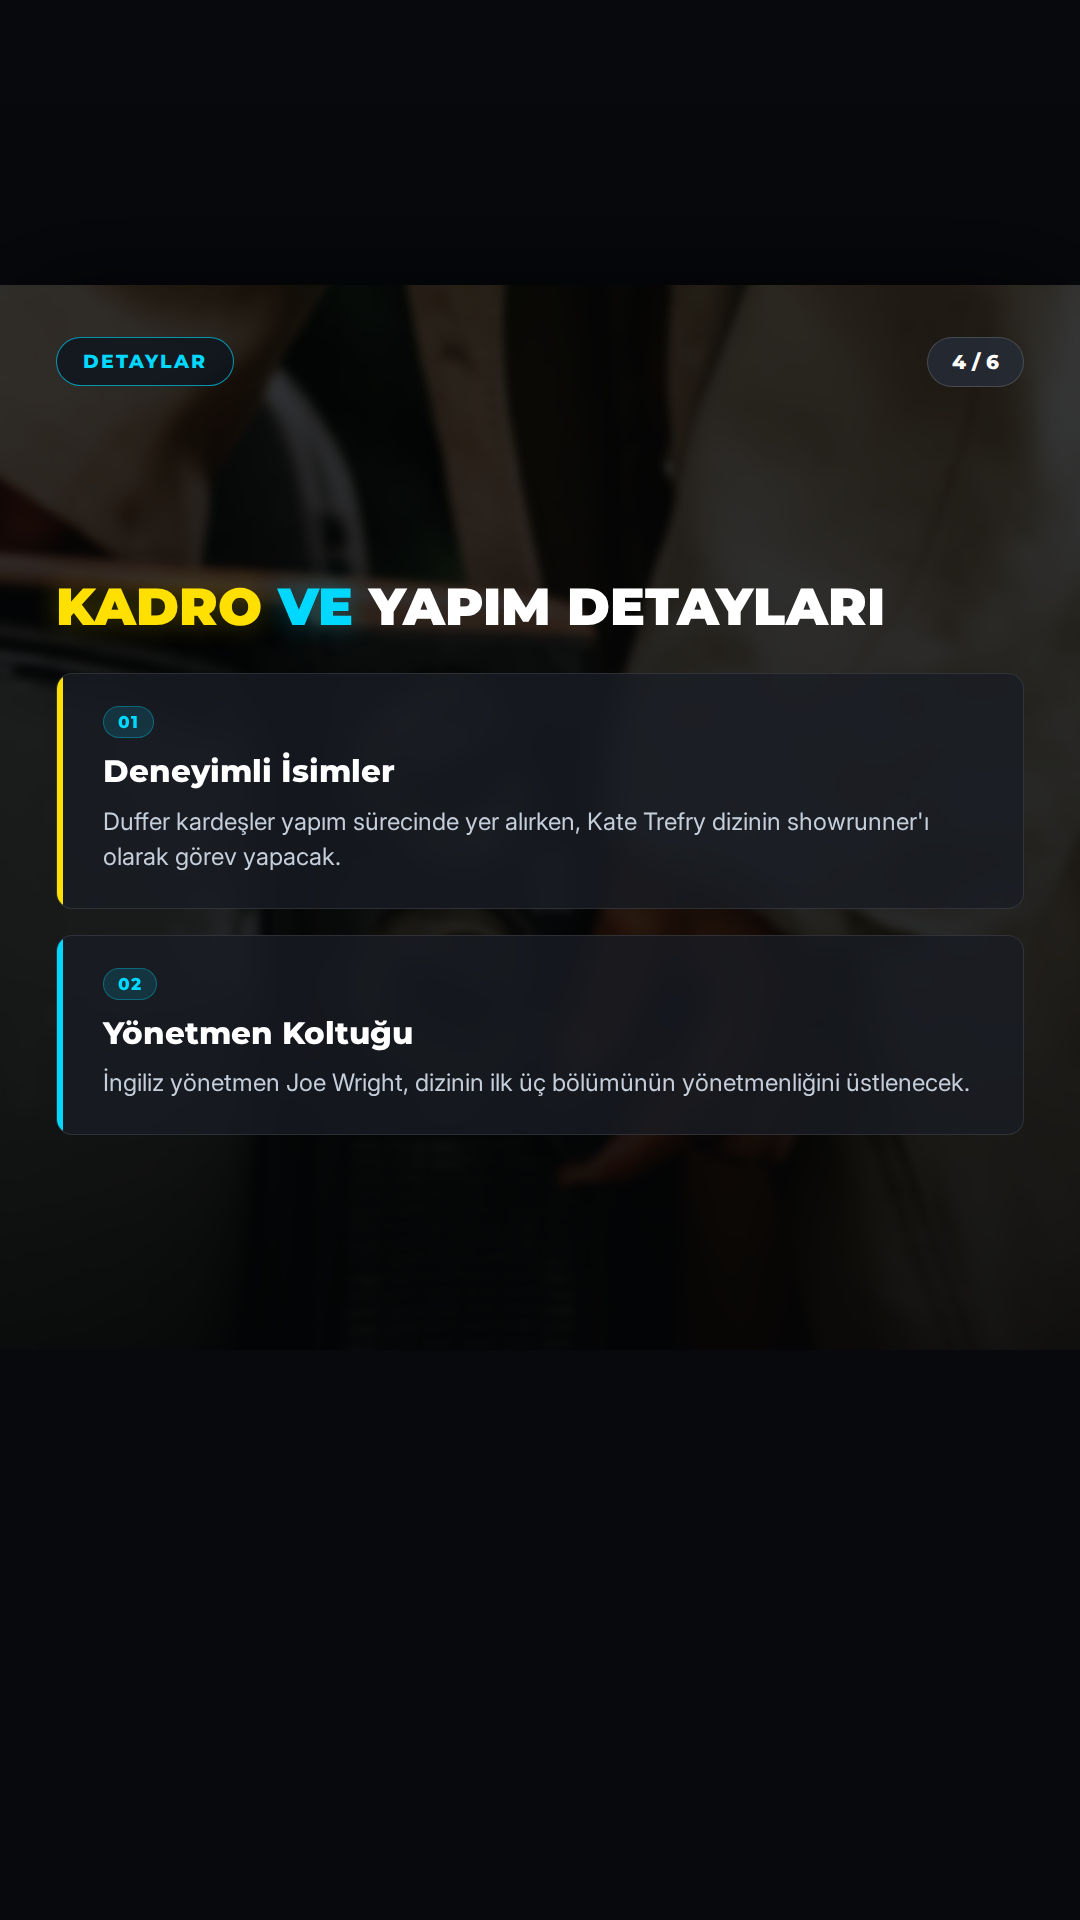
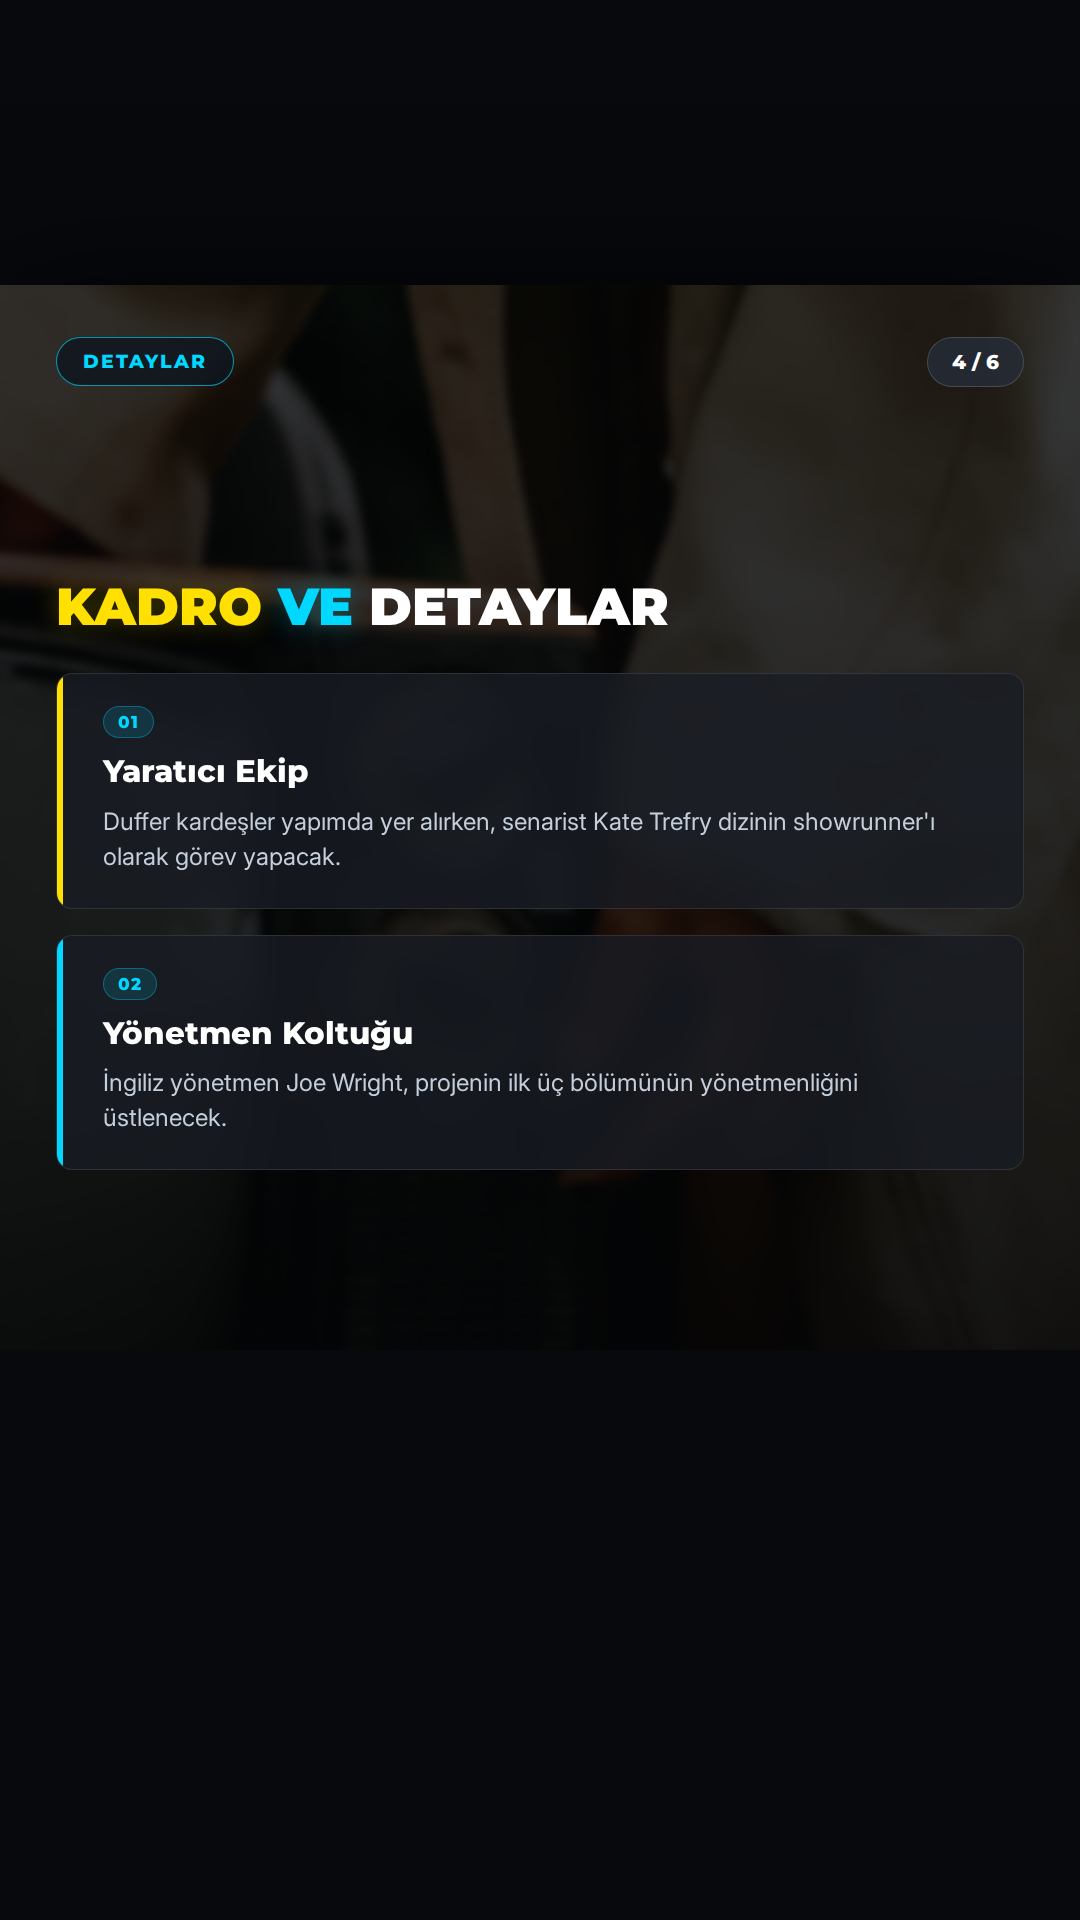
🤖 post: 2026-11-06 12:00 – Stranger Things is getting a live-action spinoff called Othe

diff --git a/output/2026-11-06/02-1200-stranger-things-is-getting-a-live-action-spinoff/captions.md b/output/2026-11-06/02-1200-stranger-things-is-getting-a-live-action-spinoff/captions.md
@@ -2,29 +2,37 @@
 
 ## INSTAGRAM
 
-Stranger Things evreni büyüyor! 📺 Netflix, merakla beklenen yeni canlı aksiyon yan dizisi 'Other Worlds: A Stranger Things Adventure'ı resmen duyurdu. Dizi, hikayenin kökenlerine inerek bizi 1950'li yıllara götürecek. Duffer kardeşlerin yapımcılığını üstlendiği ve Joe Wright'ın yönetmen koltuğunda oturduğu bu yapım için 2028 yılı hedefleniyor. Stranger Things evreninin 1950'li yıllara uzanması sizce hikayeyi nasıl etkileyecek? Yorumlarda buluşalım! Kaynak: The Verge, Wired
+Stranger Things evreni 1950'lere geri dönüyor! 📺 Netflix, merakla beklenen yeni canlı aksiyon yan dizisi 'Other Worlds: A Stranger Things Adventure' projesini resmen duyurdu.
 
-#StrangerThings #OtherWorlds #Netflix #DiziHaberleri #BilimKurgu #YeniDizi #DufferBrothers #StrangerThingsUniverse #SciFi #TVSeries #NetflixOriginal
+Duffer kardeşlerin yapımcılığını üstlendiği dizinin showrunner koltuğunda Kate Trefry oturuyor. İlk üç bölümü ise başarılı yönetmen Joe Wright yönetecek.
+
+Ana diziden ve tiyatro oyunundan daha eski bir dönemi konu alacak olan yapımın 2028 yılında izleyiciyle buluşması planlanıyor. Evren, animasyon projesi 'Tales From '85' ile birlikte hızla genişlemeye devam ediyor.
+
+Sizce Stranger Things evreninin 1950'li yıllara uzanması hikayeye nasıl bir derinlik katacak? Yorumlarda buluşalım!
+
+Kaynak: The Verge, Wired
+
+#StrangerThings #OtherWorlds #Netflix #DiziHaberleri #BilimKurgu #DufferBrothers #YeniDizi #StrangerThingsUniverse #SciFi #NetflixSeries #JoeWright
 
 ## TIKTOK
 
-Stranger Things hayranları buraya! 🚨 Netflix, 1950'lerde geçecek yeni canlı aksiyon dizisi 'Other Worlds'ü duyurdu. 2028'de geliyor! Sizce bu prequel hikayesi evreni nasıl değiştirecek? Kaynak: The Verge, Wired
+Stranger Things hayranları buraya! 🚨 Netflix, 1950'lerde geçecek yeni canlı aksiyon dizisi 'Other Worlds'ü duyurdu. 2028'de geliyor! Duffer kardeşler ve Joe Wright iş birliğiyle evren genişliyor. Sizce nasıl olacak? #StrangerThings #OtherWorlds #Netflix #Dizi #YeniDizi #SciFi
 
-#StrangerThings #OtherWorlds #Netflix #DiziÖnerisi #StrangerThings5
+#StrangerThings #OtherWorlds #Netflix #Dizi #YeniDizi #SciFi
 
 ## X
 
-Stranger Things evreni genişliyor! 📺 Netflix, 1950'lerde geçecek yeni canlı aksiyon yan dizisi 'Other Worlds: A Stranger Things Adventure'ı duyurdu. Duffer kardeşlerin yapımcılığını üstlendiği dizi 2028'de geliyor. Kaynak: The Verge, Wired
+Stranger Things evreni genişliyor! 📺 Netflix, 1950'lerde geçecek yeni canlı aksiyon dizisi 'Other Worlds: A Stranger Things Adventure'ı duyurdu. Duffer kardeşler ve Joe Wright imzalı yapım 2028'de geliyor. Sizce 1950'ler hikayeye ne katar? Kaynak: The Verge, Wired
 
 #StrangerThings #Netflix
 
 ## THREADS
 
-Stranger Things Evreni Genişliyor! 📺
+Stranger Things Evreni Genişliyor: Other Worlds
 
-Netflix, 1950'li yıllarda geçecek yeni canlı aksiyon yan dizisi 'Other Worlds: A Stranger Things Adventure'ı duyurdu. Duffer kardeşlerin yapımcılığını üstlendiği ve Joe Wright'ın yöneteceği dizi, 2028'de izleyiciyle buluşacak.
+Netflix, sevilen serinin 1950'lerde geçecek yeni canlı aksiyon yan dizisini resmen duyurdu. Duffer kardeşlerin yapımcılığında, Joe Wright yönetmenliğinde hazırlanan proje 2028'de izleyiciyle buluşacak.
 
-Stranger Things evreninin 1950'li yıllara uzanması sizce hikayeyi nasıl etkileyecek? 💭
+Evrenin kökenlerine inen bu yeni halka, hikayeyi bambaşka bir boyuta taşıyacak gibi görünüyor. Sizce 1950'li yıllara uzanmak hikayeye nasıl bir derinlik katacak? 💭
 
 Kaynak: The Verge, Wired
 
@@ -32,16 +40,24 @@ Kaynak: The Verge, Wired
 
 ## LINKEDIN
 
-Dijital eğlence dünyasında içerik stratejileri evrilmeye devam ediyor. Netflix, popüler Stranger Things evrenini genişletmek adına yeni bir canlı aksiyon yan dizisi olan 'Other Worlds: A Stranger Things Adventure' projesini duyurdu.
+Dijital eğlence dünyasında stratejik genişleme: Netflix, Stranger Things evrenini büyütmeye devam ediyor.
 
-1950'li yıllarda geçecek olan bu prequel hikayesi, Duffer kardeşlerin yapımcılığında ve Joe Wright'ın yönetmenliğinde 2028 yılında izleyiciyle buluşacak. Platformun, animasyon içeriklerin ardından canlı aksiyon yatırımlarıyla evrenin derinliğini artırma stratejisi, sadık izleyici kitlesini korumak adına kritik bir hamle olarak öne çıkıyor.
+Platform, 'Other Worlds: A Stranger Things Adventure' adlı yeni bir canlı aksiyon yan dizisi hazırlığında olduğunu duyurdu. Duffer kardeşlerin yapımcılığında ve Joe Wright'ın yönetmenliğinde geliştirilen proje, 1950'li yıllara odaklanarak markanın hikaye anlatımını geçmişe doğru genişletiyor.
 
-Sizce köklü bir serinin geçmişine odaklanan bu tür yan yapımlar, izleyici bağlılığını nasıl etkiliyor? Kaynak: The Verge, Wired
+2028 yılında yayınlanması planlanan bu yapım, animasyon projeleriyle birlikte Stranger Things markasının çok kanallı bir içerik ekosistemine dönüştüğünün önemli bir göstergesi. Sektörel açıdan bakıldığında, köklü IP'lerin farklı dönemler ve formatlarla (canlı aksiyon/animasyon) korunması, izleyici sadakatini sürdürmek adına kritik bir strateji.
 
-#Netflix #DijitalEğlence #MedyaSektörü #İçerikStratejisi #StrangerThings
+Kaynak: The Verge, Wired
+
+#DijitalEğlence #Netflix #StrangerThings #MedyaStratejisi #İçerikÜretimi
 
 ## FACEBOOK
 
-Stranger Things evreni genişliyor! 📺 Netflix, merakla beklenen yeni canlı aksiyon yan dizisi 'Other Worlds: A Stranger Things Adventure'ı resmen duyurdu. Dizi, hikayenin kökenlerine inerek bizi 1950'li yıllara götürecek. Duffer kardeşlerin yapımcılığını üstlendiği ve Joe Wright'ın yönetmen koltuğunda oturduğu bu yapım için 2028 yılı hedefleniyor. Stranger Things evreninin 1950'li yıllara uzanması sizce hikayeyi nasıl etkileyecek? Yorumlarda buluşalım! Kaynak: The Verge, Wired
+Stranger Things hayranlarına müjde! Netflix, sevilen serinin yeni canlı aksiyon yan dizisi 'Other Worlds: A Stranger Things Adventure' projesini resmen duyurdu.
 
-#StrangerThings #OtherWorlds #Netflix #DiziHaberleri #BilimKurgu
+Duffer kardeşlerin yapımcılığını üstlendiği ve Joe Wright'ın yönetmen koltuğunda oturduğu dizi, 1950'li yıllarda geçecek. 2028 yılında izleyiciyle buluşması planlanan bu yapım, evrenin kökenlerine inerek hikayeyi genişletmeyi hedefliyor.
+
+Sizce Stranger Things evreninin 1950'li yıllara uzanması hikayeye nasıl bir derinlik katacak? Yorumlarda buluşalım!
+
+Kaynak: The Verge, Wired
+
+#StrangerThings #OtherWorlds #Netflix #DiziHaberleri #YeniDizi

diff --git a/output/2026-11-06/02-1200-stranger-things-is-getting-a-live-action-spinoff/verification.md b/output/2026-11-06/02-1200-stranger-things-is-getting-a-live-action-spinoff/verification.md
@@ -3,14 +3,14 @@
 **Haber:** Stranger Things is getting a live-action spinoff called Other Worlds
 **Canonical URL:** https://www.theverge.com/entertainment/1028608/other-worlds-a-stranger-things-adventure-netflix-announce-trailer
 **Kaynaklar:** The Verge, Hugging Face Blog, Wired, Engadget
-**Kontrol zamanı:** 2026-11-06T17:43:04+03:00
+**Kontrol zamanı:** 2026-11-06T17:53:49+03:00
 **Sonuç:** ✅ YAYINLANABİLİR
 
 ---
 
 ## İddia Bazlı Sonuçlar
 
-### 1. Netflix, Stranger Things dizisinin Other Worlds: A Stranger Things Adventure adlı bir canlı aksiyon yan dizisini duyurdu.
+### 1. Netflix, Stranger Things dizisinin Other Worlds: A Stranger Things Adventure adlı canlı aksiyon (live-action) yan dizisini duyurdu.
 - **Karar:** ✅ `supported`
 - **Kanıtlar:**
   - [https://www.theverge.com/entertainment/1028608/other-worlds-a-stranger-things-adventure-netflix-announce-trailer](https://www.theverge.com/entertainment/1028608/other-worlds-a-stranger-things-adventure-netflix-announce-trailer)
@@ -24,15 +24,15 @@
   - [https://www.theverge.com/entertainment/1028608/other-worlds-a-stranger-things-adventure-netflix-announce-trailer](https://www.theverge.com/entertainment/1028608/other-worlds-a-stranger-things-adventure-netflix-announce-trailer)
     > The streamer just announced a live-action spinoff of Stranger Things which is expected to debut in 2028.
 
-### 3. Other Worlds dizisi 1950'li yıllarda geçecek bir öncül (prequel) hikayesidir.
+### 3. Other Worlds dizisi 1950'li yıllarda geçen bir öncül (prequel) hikayesidir.
 - **Karar:** ✅ `supported`
 - **Kanıtlar:**
   - [https://www.theverge.com/entertainment/1028608/other-worlds-a-stranger-things-adventure-netflix-announce-trailer](https://www.theverge.com/entertainment/1028608/other-worlds-a-stranger-things-adventure-netflix-announce-trailer)
     > According to Netflix, Other Worlds is “a prequel set in the 1950s, before Stranger Things and before the stage play Stranger Things: The First Shadow.“
   - [https://www.theverge.com/entertainment/1028608/other-worlds-a-stranger-things-adventure-netflix-announce-trailer](https://www.theverge.com/entertainment/1028608/other-worlds-a-stranger-things-adventure-netflix-announce-trailer)
-    > The prequel series is set in the 1950s
+    > The prequel series is set in the 1950s, and is expected to start streaming in 2028.
 
-### 4. Other Worlds dizisi, Stranger Things ve Stranger Things: The First Shadow tiyatro oyunundan önceki bir zaman dilimini konu almaktadır.
+### 4. Other Worlds dizisi, Stranger Things ana dizisinden ve Stranger Things: The First Shadow adlı tiyatro oyunundan daha önceki bir dönemi konu almaktadır.
 - **Karar:** ✅ `supported`
 - **Kanıtlar:**
   - [https://www.theverge.com/entertainment/1028608/other-worlds-a-stranger-things-adventure-netflix-announce-trailer](https://www.theverge.com/entertainment/1028608/other-worlds-a-stranger-things-adventure-netflix-announce-trailer)
@@ -44,19 +44,19 @@
   - [https://www.theverge.com/entertainment/1028608/other-worlds-a-stranger-things-adventure-netflix-announce-trailer](https://www.theverge.com/entertainment/1028608/other-worlds-a-stranger-things-adventure-netflix-announce-trailer)
     > Franchise creators the Duffer brothers are back on board
 
-### 6. Kate Trefry, Other Worlds dizisinde showrunner olarak görev yapacaktır.
+### 6. Stranger Things dizisinin senaristi Kate Trefry, Other Worlds dizisinde showrunner olarak görev yapacaktır.
 - **Karar:** ✅ `supported`
 - **Kanıtlar:**
   - [https://www.theverge.com/entertainment/1028608/other-worlds-a-stranger-things-adventure-netflix-announce-trailer](https://www.theverge.com/entertainment/1028608/other-worlds-a-stranger-things-adventure-netflix-announce-trailer)
     > Stranger Things veteran Kate Trefry will serve as showrunner.
 
-### 7. İngiliz yönetmen Joe Wright, dizinin ilk üç bölümünü yönetecektir.
+### 7. İngiliz yönetmen Joe Wright, Other Worlds dizisinin ilk üç bölümünü yönetecektir.
 - **Karar:** ✅ `supported`
 - **Kanıtlar:**
   - [https://www.theverge.com/entertainment/1028608/other-worlds-a-stranger-things-adventure-netflix-announce-trailer](https://www.theverge.com/entertainment/1028608/other-worlds-a-stranger-things-adventure-netflix-announce-trailer)
     > British director Joe Wright is set to helm the first three episodes.
 
-### 8. Netflix daha önce Tales From '85 adlı animasyon bir yan dizi yayınlamıştır.
+### 8. Tales From '85, Stranger Things serisinin daha önce duyurulan animasyon yan dizisidir.
 - **Karar:** ✅ `supported`
 - **Kanıtlar:**
   - [https://www.theverge.com/entertainment/1028608/other-worlds-a-stranger-things-adventure-netflix-announce-trailer](https://www.theverge.com/entertainment/1028608/other-worlds-a-stranger-things-adventure-netflix-announce-trailer)
@@ -70,12 +70,12 @@
 |-------|--------|--------|-------|
 | Netflix, Stranger Things dizisinin Other Worlds: A Stranger  | supported | supported | supported |
 | Other Worlds: A Stranger Things Adventure dizisinin 2028 yıl | supported | supported | supported |
-| Other Worlds dizisi 1950'li yıllarda geçecek bir öncül (preq | supported | supported | supported |
-| Other Worlds dizisi, Stranger Things ve Stranger Things: The | supported | supported | supported |
+| Other Worlds dizisi 1950'li yıllarda geçen bir öncül (preque | supported | supported | supported |
+| Other Worlds dizisi, Stranger Things ana dizisinden ve Stran | supported | supported | supported |
 | Duffer kardeşler, Other Worlds dizisinin yapımında yer almak | supported | supported | supported |
-| Kate Trefry, Other Worlds dizisinde showrunner olarak görev  | supported | supported | supported |
-| İngiliz yönetmen Joe Wright, dizinin ilk üç bölümünü yönetec | supported | supported | supported |
-| Netflix daha önce Tales From '85 adlı animasyon bir yan dizi | supported | supported | supported |
+| Stranger Things dizisinin senaristi Kate Trefry, Other World | supported | supported | supported |
+| İngiliz yönetmen Joe Wright, Other Worlds dizisinin ilk üç b | supported | supported | supported |
+| Tales From '85, Stranger Things serisinin daha önce duyurula | supported | supported | supported |
 
 ## Kaynak Metinleri
 
